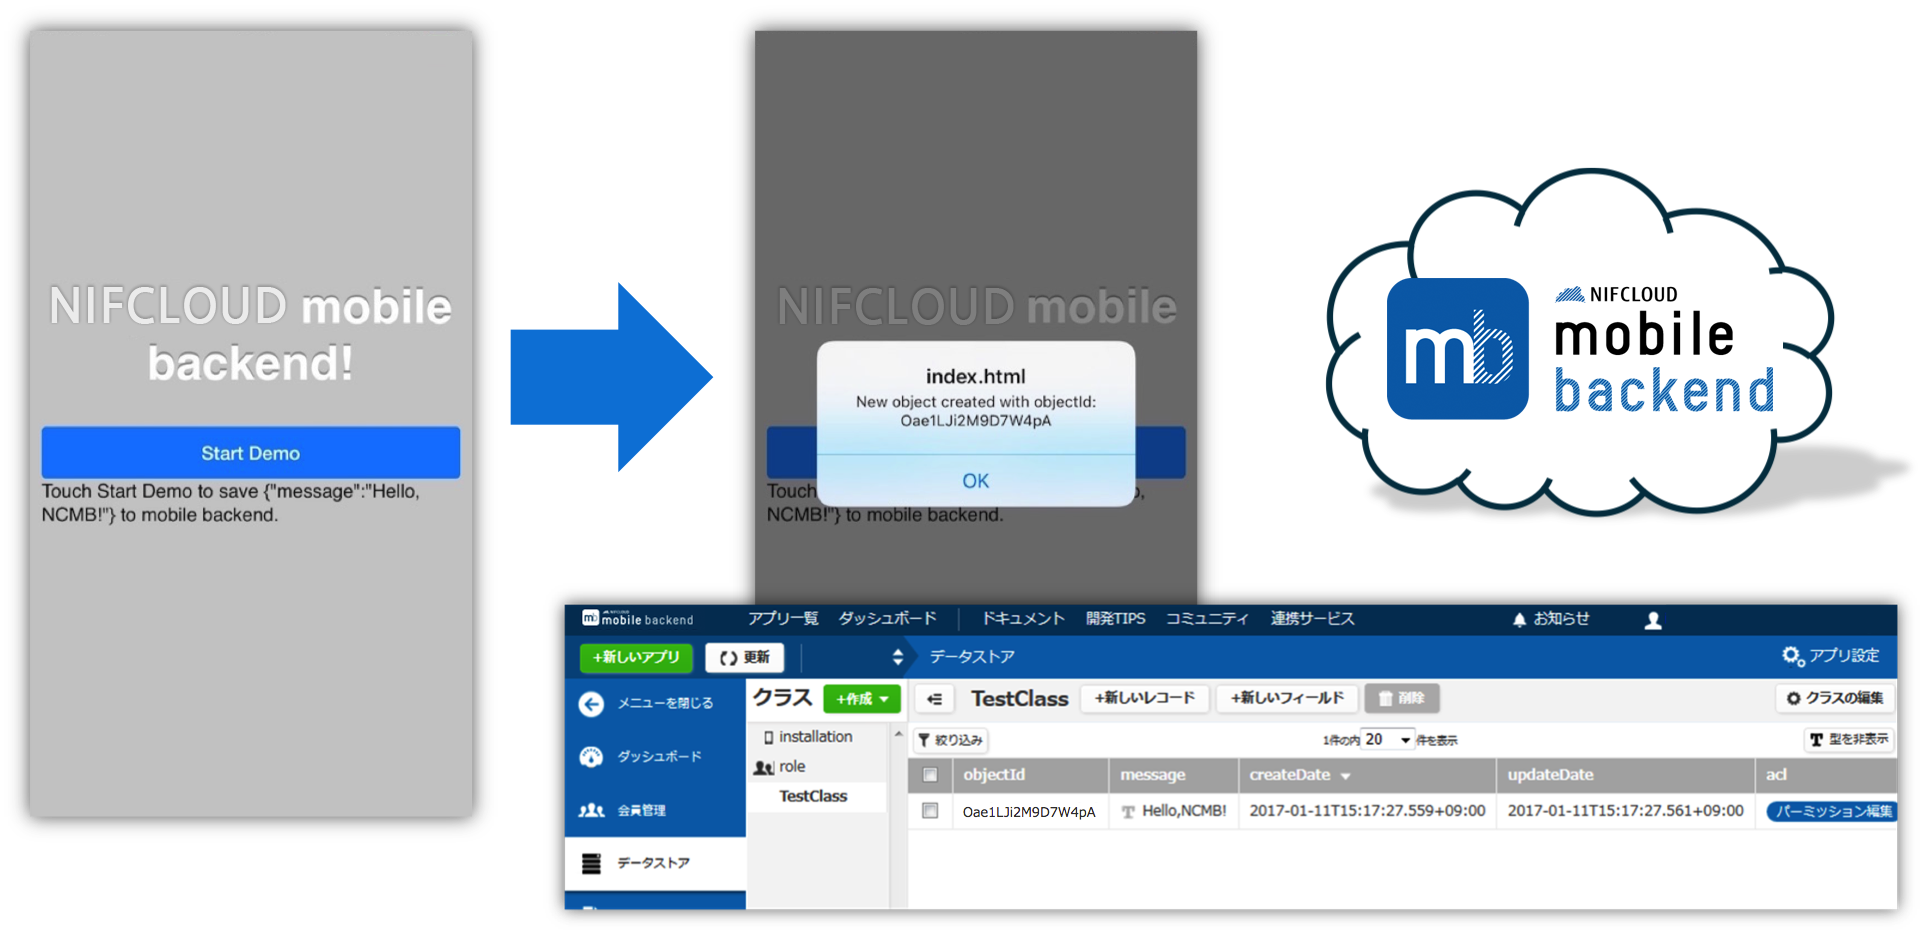
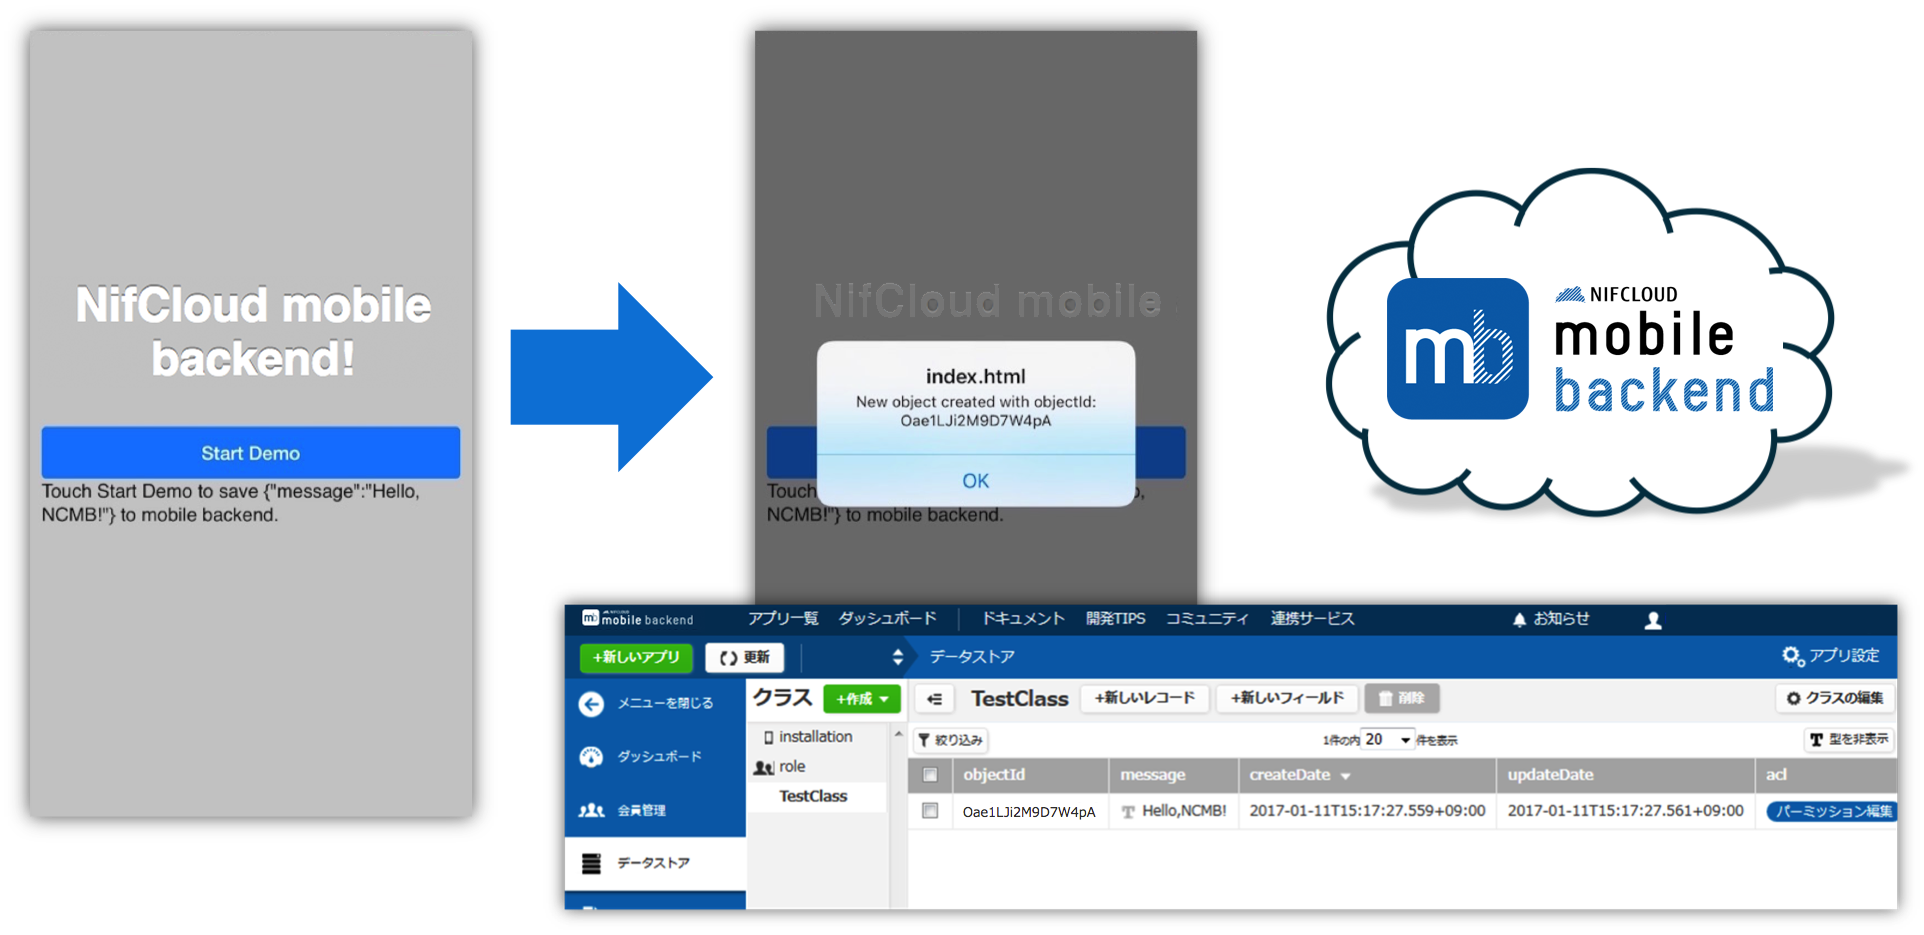
update images

Changed region(s): [[0.0, 0.2791, 0.2495, 0.4032], [0.5301, 0.3102, 0.6237, 0.3412]]

diff --git a/www/index.html b/www/index.html
@@ -30,7 +30,7 @@
     </script>
 </head>
 <body>
-    <h1>NiftyCloud mobile backend!</h1>
+    <h1>NifCloud mobile backend!</h1>
     <a class="button--large" onclick="startDemo()">Start Demo</a>
     <div>Touch Start Demo to save {"message":"Hello, NCMB!"} to mobile backend.</div>
 </body>
